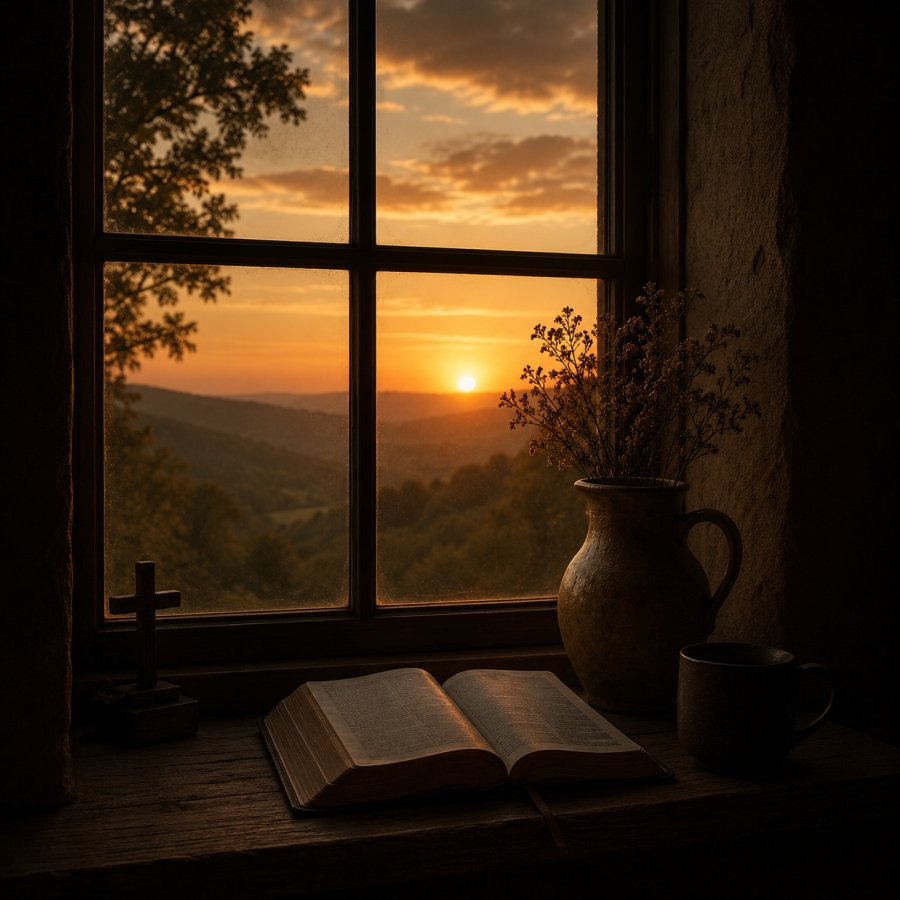
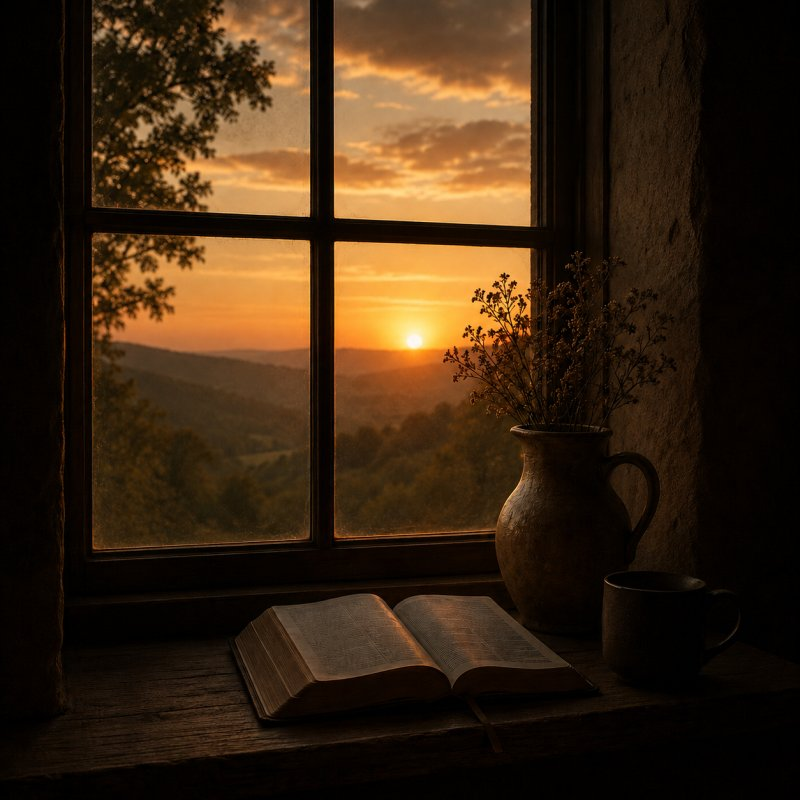
fix(schalom-leben+blog): neues Bild 09 (Schalom-Reset), Autoren-Foto von 104 auf 128 vergroessert
- schalom-leben/bilder/09.jpg: neue Variante (Schabbat-Reset-Thema)
- article.css: .author-photo Kreis von 104x104 auf 128x128

Changed region(s): [[0.5625, 0.3438, 0.6875, 0.4688], [0.125, 0.625, 0.2188, 0.6875], [0.625, 0.2812, 0.6562, 0.3125]]

diff --git a/article.css b/article.css
@@ -649,8 +649,8 @@
 
 /* Author-Foto (Background-Image-Div, kein direkter Bild-Link, kein Original-Zoom) */
 .author-photo {
-  width: 104px;
-  height: 104px;
+  width: 128px;
+  height: 128px;
   border-radius: 50%;
   background-image: url('/bilder/micha-schalom-israel-03.jpg');
   background-size: cover;
